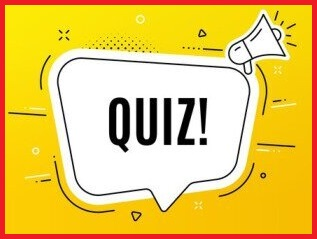
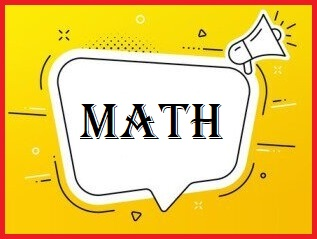
gk

Changed region(s): [[0.2555, 0.41, 0.7098, 0.6444]]

diff --git a/Hindi-job/index.html b/Hindi-job/index.html
@@ -457,7 +457,7 @@
                 <div class="container-fluid">
                     <div class="row">
                         <div class="col-lg-12">
-                            <h2 class="block-title">Online Quiz (प्रश्नोत्तरी)</h2>
+                            <h2 class="block-title">Mock Test </h2>
                         </div>
                         <!-- Col End -->
                     </div>
@@ -476,9 +476,9 @@
                                                           <div class="video-content"><h9 class="">
 <a href="#">
 
-बैंकिंग जॉब की तैयारी                                         </a></h9><div class="video-info d-flex align-items-center">
+गणित का मॉक टेस्ट                                         </a></h9><div class="video-info d-flex align-items-center">
                                                           <span class="video-age">
-Banking job <br> Complete Course 
+ quiz <br> Mock Test 
                                                           </span></div></div></div><!-- video Block End --></div>
 
 <br></div><!-- end @@@@@@@@@@@@@@@@@@@@@@@@@@@@@@@@@@@@@@@@@@@@@@@@@@@@@@@@@@@@@@@@@@@@@@@@@@@@@@@@@@@@@@@@@@@@@@@@@@@@@ -->
